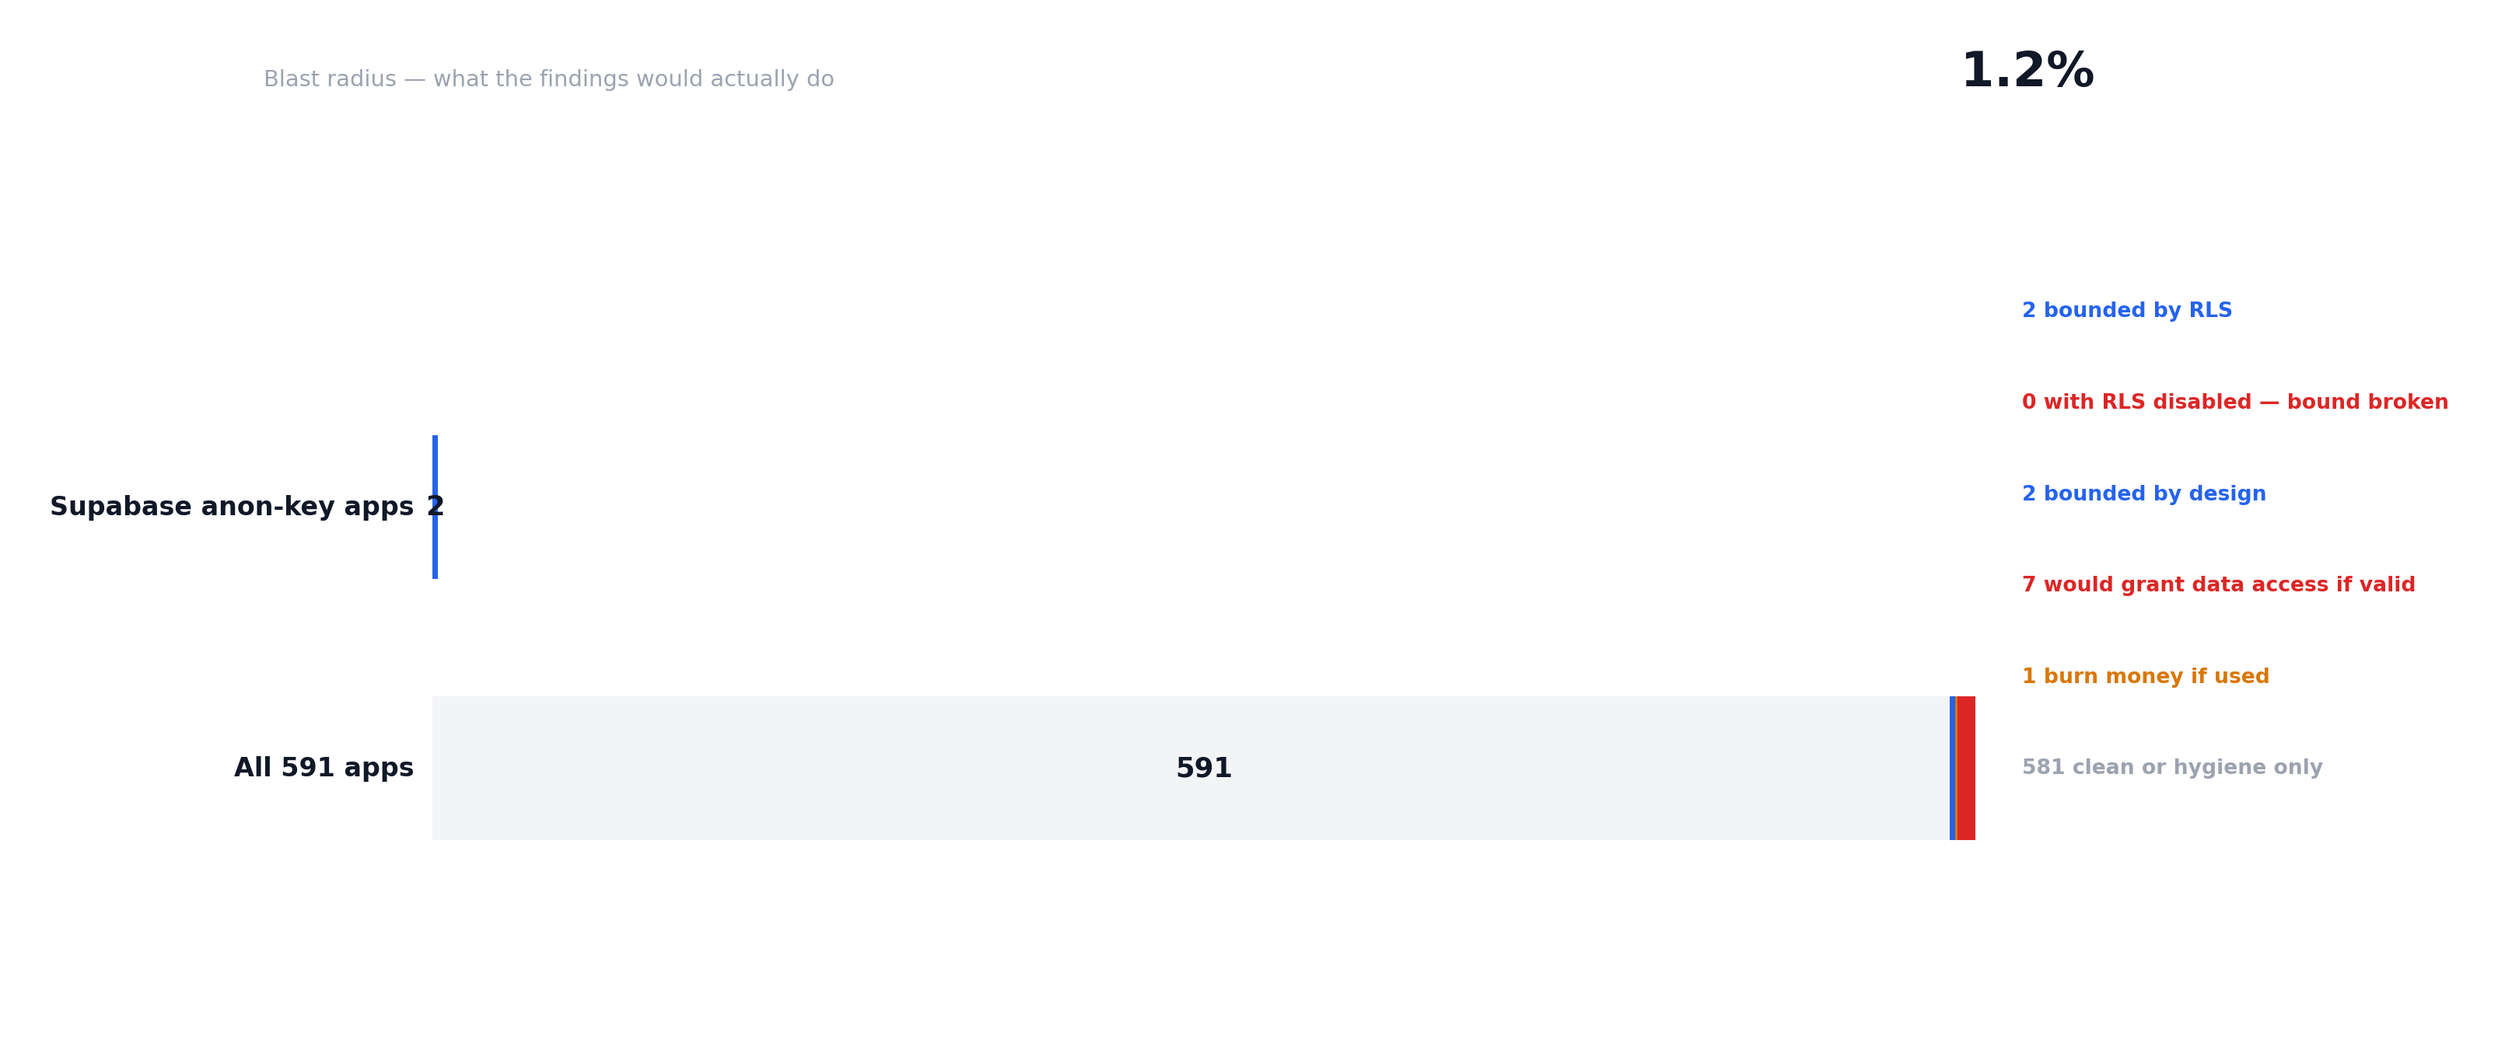
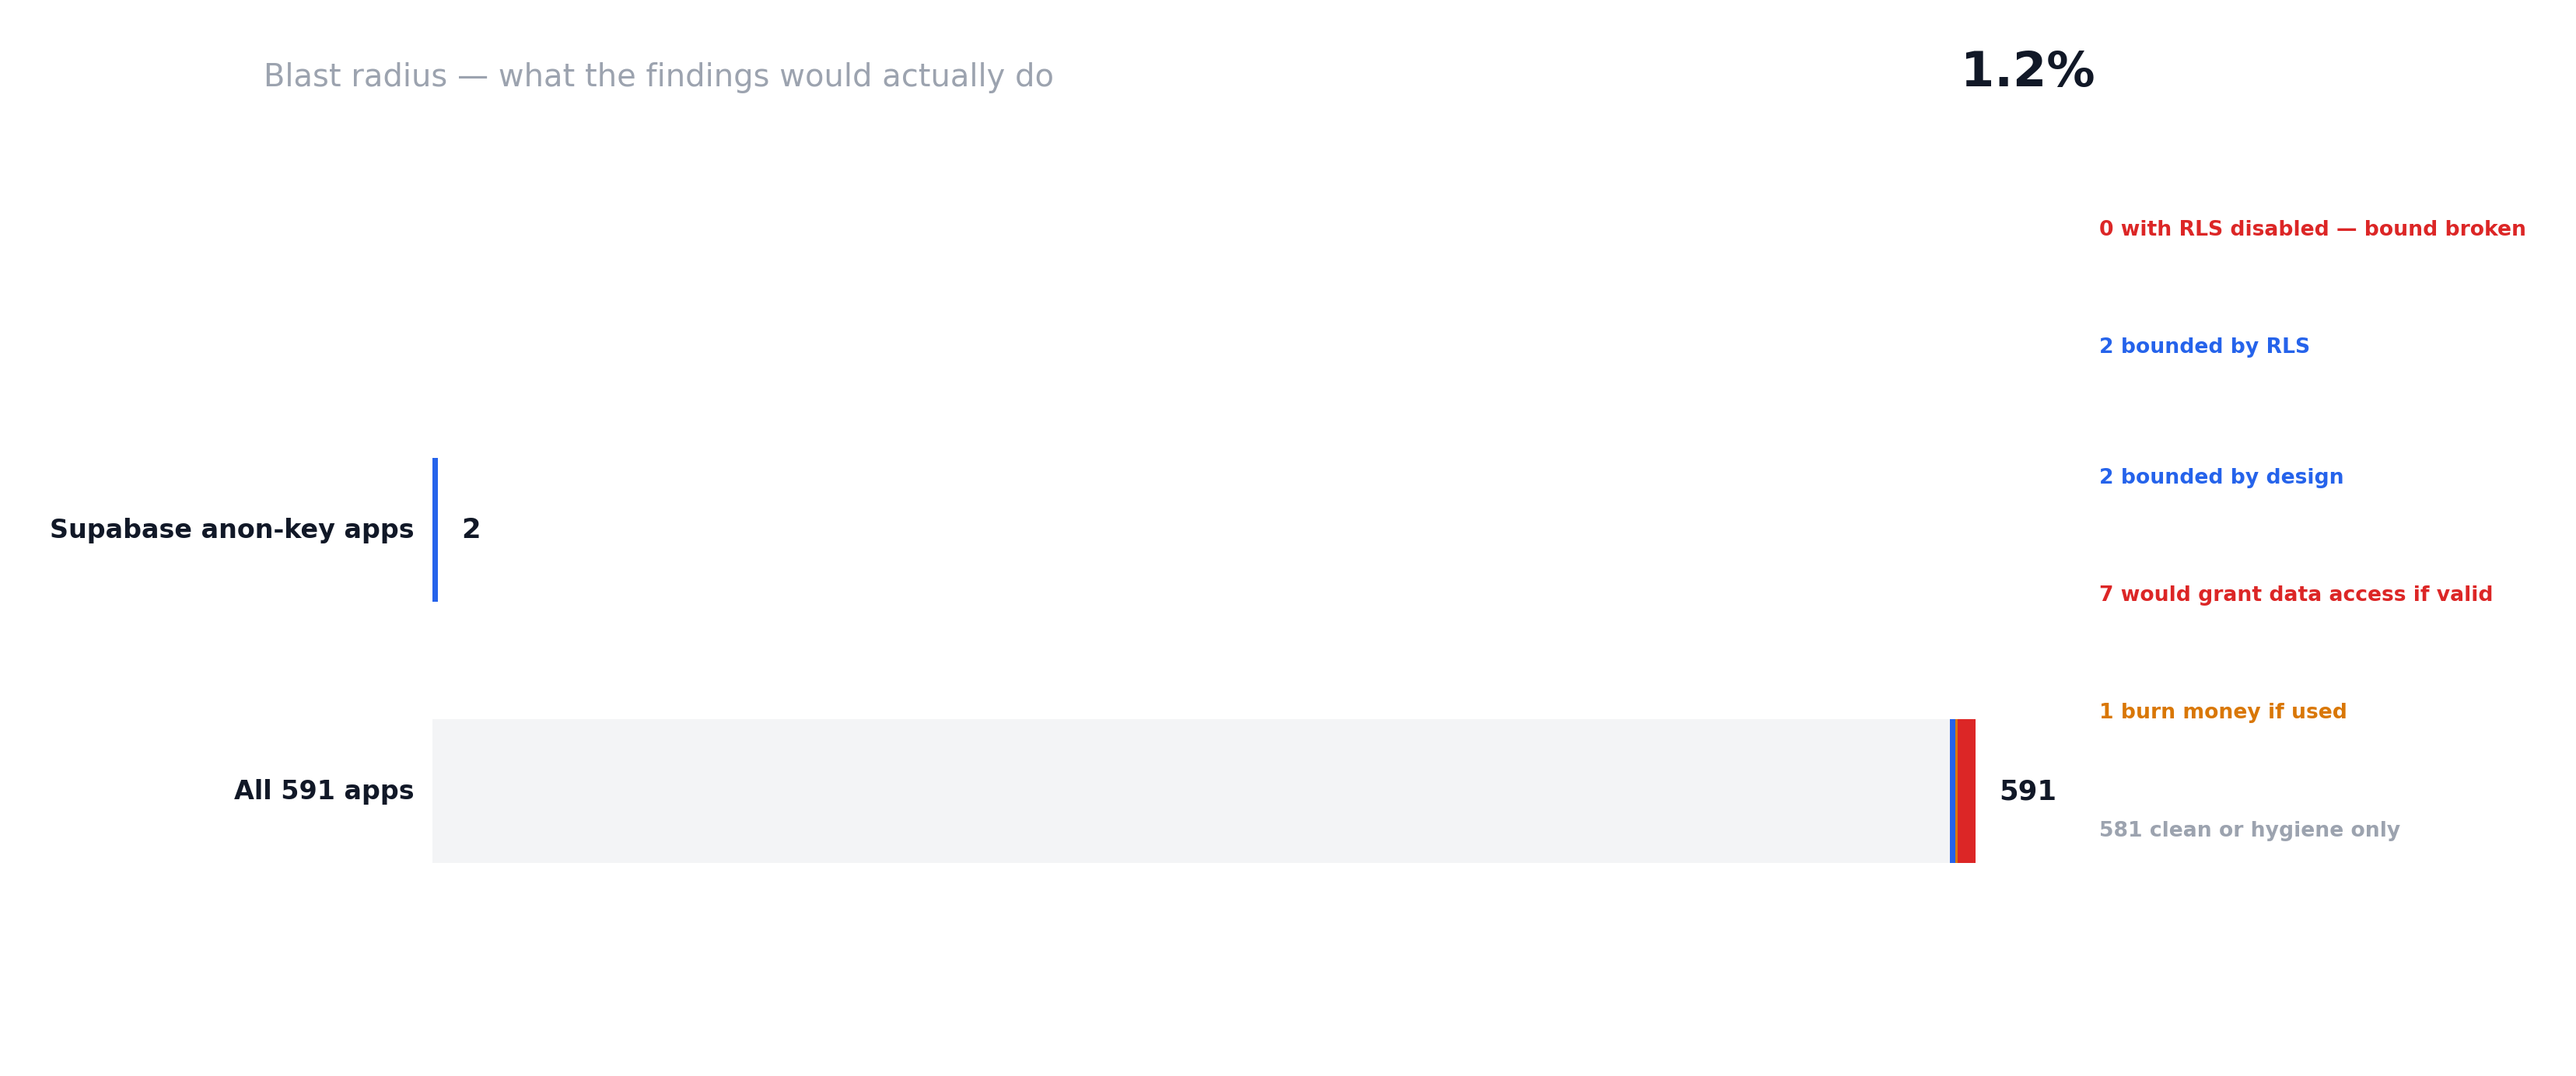
Blast chart: fix overlapping labels
Bar totals move outside the bars, the right-hand legend gets its own
spaced column, and the Supabase RLS labels sit clear of the annotation.
Re-rendered 07-blast.png for all three chart sets (corpus, v0, aicoded).

diff --git a/pipeline/generate_report.py b/pipeline/generate_report.py
@@ -391,28 +391,31 @@ def chart_blast(blast, out: Path) -> None:
         ax.text(-n * 0.012, y, label, ha="right", va="center",
                 fontsize=15, color=GRAY_900, fontweight="600",
                 fontfamily=_FONT)
-        # Place count inside the bar to avoid overlap with legend
-        ax.text(total * 0.5, y, f"{total}", va="center", ha="center",
+        # Place count to the right of the bar to avoid overlap with label
+        ax.text(total + n * 0.015, y, f"{total}", va="center", ha="left",
                 fontsize=16, color=GRAY_900, fontweight="800",
                 fontfamily=_FONT)
 
-    def _annot(x, y, text, color):
-        ax.text(x + n * 0.012, y, text, va="center", fontsize=12,
-                color=color, fontweight="700", fontfamily=_FONT)
+    # Place legend labels in a column to the right, spaced to avoid overlap
+    legend_x = n + n * 0.08
+    legend_items = [
+        (d, GRAY_400, "clean or hygiene only"),
+        (b, AMBER, "burn money if used"),
+        (a, RED, "would grant data access if valid"),
+        (c, BLUE, "bounded by design"),
+    ]
+    for i, (count, color, text) in enumerate(legend_items):
+        ax.text(legend_x, -0.15 + i * 0.45, f"{count} {text}", va="center",
+                fontsize=12, color=color, fontweight="700", fontfamily=_FONT)
 
-    # Place labels at the right edge in a vertical column to avoid overlap
-    ax.text(n + n * 0.03, 0, f"{d} clean or hygiene only", va="center",
-            fontsize=12, color=GRAY_400, fontweight="700", fontfamily=_FONT)
-    ax.text(n + n * 0.03, 0.35, f"{b} burn money if used", va="center",
-            fontsize=12, color=AMBER, fontweight="700", fontfamily=_FONT)
-    ax.text(n + n * 0.03, 0.70, f"{a} would grant data access if valid", va="center",
-            fontsize=12, color=RED, fontweight="700", fontfamily=_FONT)
-    ax.text(n + n * 0.03, 1.05, f"{c} bounded by design", va="center",
-            fontsize=12, color=BLUE, fontweight="700", fontfamily=_FONT)
-    ax.text(n + n * 0.03, 1.40, f"{bound['rls_disabled']} with RLS disabled — bound broken",
-            va="center", fontsize=12, color=RED, fontweight="700", fontfamily=_FONT)
-    ax.text(n + n * 0.03, 1.75, f"{bound['rls_enabled']} bounded by RLS",
-            va="center", fontsize=12, color=BLUE, fontweight="700", fontfamily=_FONT)
+    # Supabase-specific labels above the bars
+    sup_x = n + n * 0.08
+    ax.text(sup_x, 1.7, f"{bound['rls_enabled']} bounded by RLS",
+            va="center", fontsize=12, color=BLUE, fontweight="700",
+            fontfamily=_FONT)
+    ax.text(sup_x, 2.15, f"{bound['rls_disabled']} with RLS disabled — bound broken",
+            va="center", fontsize=12, color=RED, fontweight="700",
+            fontfamily=_FONT)
 
     if bound["rls_disabled"]:
         ax.annotate(
@@ -423,8 +426,12 @@ def chart_blast(blast, out: Path) -> None:
             arrowprops=dict(arrowstyle="->", color=GRAY_400, linewidth=1.5),
             ha="center",
         )
-    _stat_line(fig, "Blast radius — what the findings would actually do",
-               f"{100 * a / n:.1f}%")
+    # Title and percentage on separate lines to avoid overlap
+    fig.text(0.04, 0.95, "Blast radius — what the findings would actually do",
+             fontsize=18, color=GRAY_400, fontweight="500", fontfamily=_FONT)
+    fig.text(0.96, 0.95, f"{100 * a / n:.1f}%",
+             fontsize=28, color=GRAY_900, ha="right",
+             fontweight="800", fontfamily=_FONT)
     _save(fig, out, "07-blast.png")
 
 
